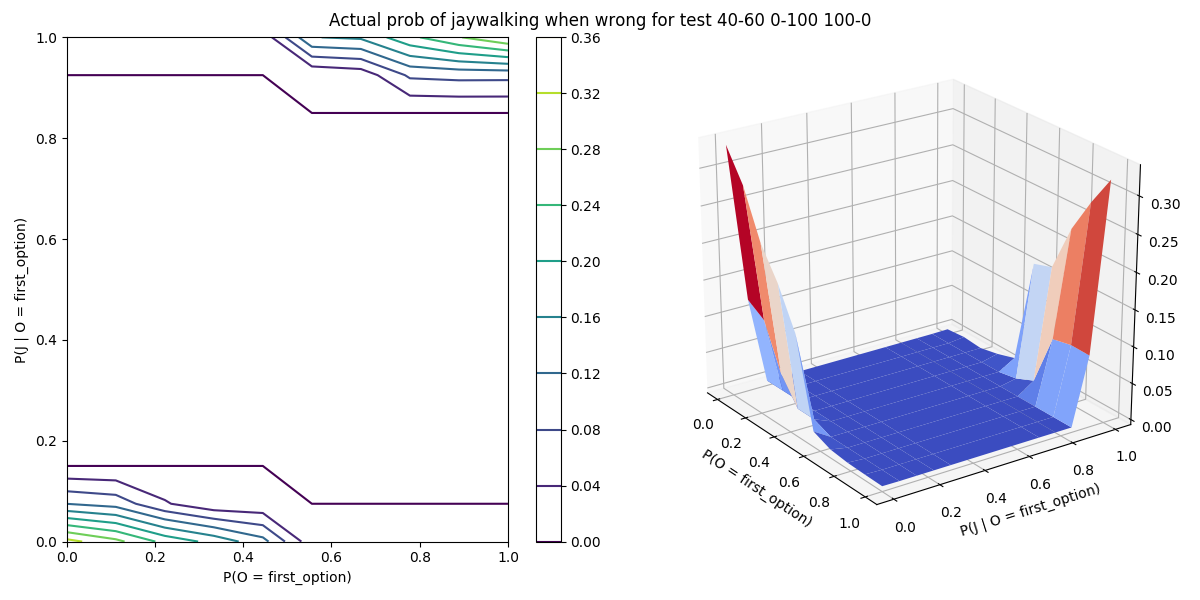
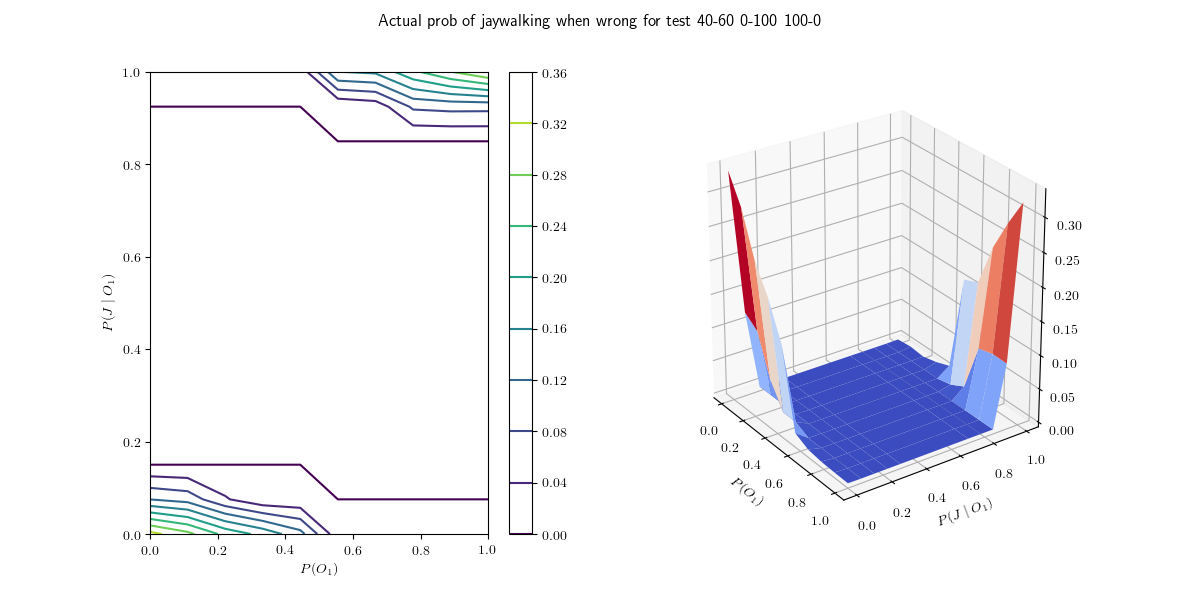
Remake scan_dense_results so it works with latex in the figures Make a bash script to generate all the figures Closes #7

diff --git a/scan_dense_results.py b/scan_dense_results.py
@@ -12,8 +12,9 @@
 #
 # You should have received a copy of the GNU General Public License
 # along with MoralAI.  If not, see <https://www.gnu.org/licenses/>.
-
+import getopt
 import json
+import sys
 
 import matplotlib.pyplot as plt
 import numpy as np
@@ -57,18 +58,16 @@ def generate_plots(data_tuple, title, filename=""):
     ax = fig1.add_subplot(1, 2, 1)
     contours = ax.contour(X, Y, Z, 9)
     fig1.colorbar(contours, ax=ax)
-    ax.set_xlabel("P(O = first_option)")
-    ax.set_ylabel("P(J | O = first_option)")
+    ax.set_xlabel("$P(O_1)$")
+    ax.set_ylabel("$P(J \\mid O_1)$")
     ax.set_title(" ")  # So the figure title doesn't overlap
 
     ax = fig1.add_subplot(1, 2, 2, projection='3d')
     ax.plot_surface(X, Y, Z, cmap=cm.coolwarm)
     ax.view_init(25, -35)
-    ax.set_xlabel("P(O = first_option)")
-    ax.set_ylabel("P(J | O = first_option)")
+    ax.set_xlabel("$P(O_1)$")
+    ax.set_ylabel("$P(J \\mid O_1)$")
     ax.set_title(" ")  # So the figure title doesn't overlap
-
-    fig1.show()
 
     if filename != "":
         fig1.savefig(filename)
@@ -78,19 +77,54 @@ def format_name_for_latex(filename: str) -> str:
     return filename.replace(" ", "_")
 
 
-if __name__ == '__main__':
-    test_name = "test 50-50 50-50 50-50"
+def make_figure(test_name: str, data_series: str, title: str, filename_suffix: str):
+    plt.rc('text', usetex=True)
+
     with open("dense results for " + test_name, "r") as f:
         data = f.readlines()
+        generate_plots(parse_dense_results(data[0], data_series),
+                       title + test_name,
+                       format_name_for_latex("figures/" + test_name + filename_suffix))
 
-        generate_plots(parse_dense_results(data[0], "accuracy"),
-                       "Classification accuracy against " + test_name,
-                       format_name_for_latex("figures/" + test_name + "_accuracy"))
 
-        generate_plots(parse_dense_results(data[0], "loss"),
-                       "Loss against " + test_name,
-                       format_name_for_latex("figures/" + test_name + "_loss"))
+def main(argv):
+    try:
+        opts, args = getopt.getopt(argv, "",
+                                   ["test-data=", "data-series=", "title=", "file-suffix="])
+    except getopt.GetoptError:
+        print("Usage: scan_dense_results.py --test-data <test data name> "
+              "--data-series <data series name> --title <title> --type <filename suffix>")
+        sys.exit(2)
 
-        generate_plots(parse_dense_results(data[0], "prob_jaywalking_when_wrong"),
-                       "Actual prob of jaywalking when wrong for " + test_name,
-                       format_name_for_latex("figures/" + test_name + "_jay_prob"))
+    test_name = None
+    data_series = None
+    title = None
+    filename_suffix = None
+    for opt, arg in opts:
+        if opt == "--test-data":
+            test_name = arg
+        elif opt == "--data-series":
+            data_series = arg
+        elif opt == "--title":
+            title = arg
+        elif opt == "--file-suffix":
+            filename_suffix = arg
+
+    if test_name is None:
+        print("--test-data argument required")
+        sys.exit(2)
+    elif data_series is None:
+        print("--data-series argument required")
+        sys.exit(2)
+    elif title is None:
+        print("--title argument required")
+        sys.exit(2)
+    elif filename_suffix is None:
+        print("--file-suffix argument required")
+        sys.exit(2)
+
+    make_figure(test_name, data_series, title, filename_suffix)
+
+
+if __name__ == '__main__':
+    main(sys.argv[1:])
